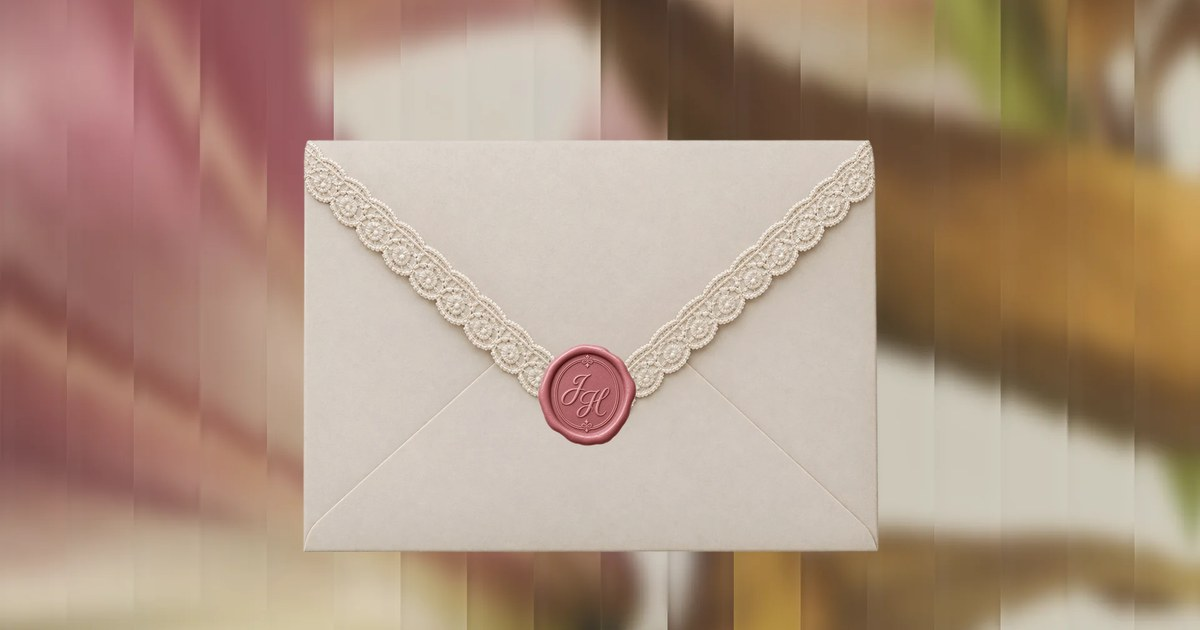
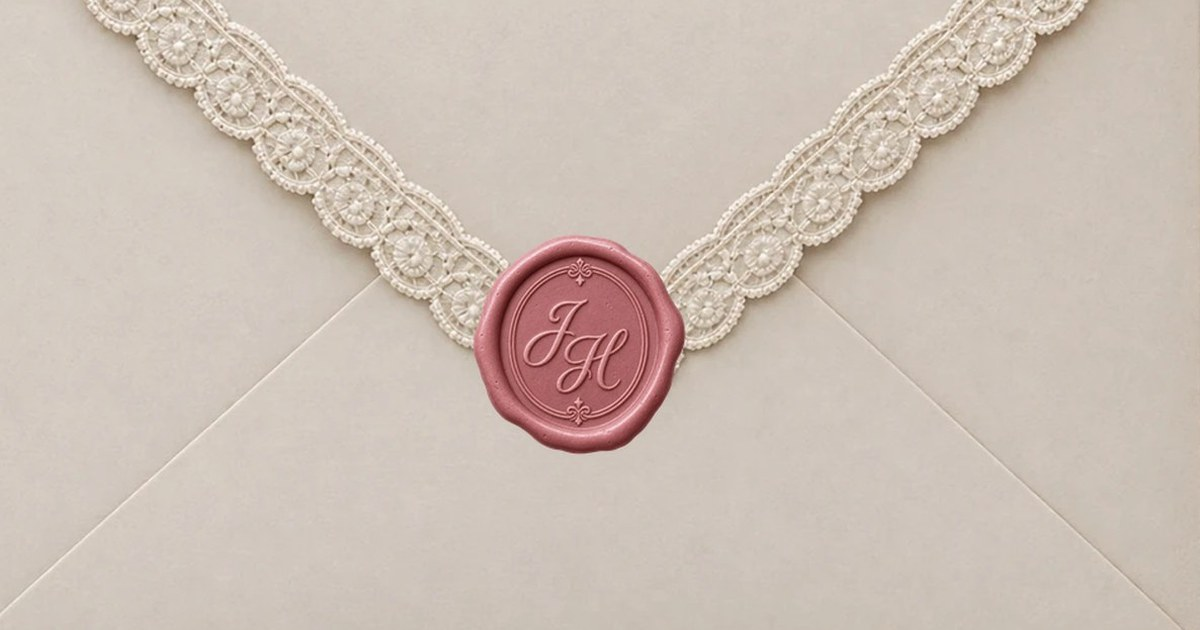
Vista previa del link: zoom del sobre a pantalla completa

diff --git a/index.html b/index.html
@@ -9,7 +9,7 @@
 <meta property="og:type" content="website">
 <meta property="og:title" content="Nos casamos - Julieta y Hernán">
 <meta property="og:description" content="Sábado 26 de diciembre de 2026 · Confirmá tu asistencia.">
-<meta property="og:image" content="https://camilarodriguezturri.github.io/juli-hernan-rsvp/assets/og-sobre.jpg">
+<meta property="og:image" content="https://camilarodriguezturri.github.io/juli-hernan-rsvp/assets/og-sobre.jpg?v=2">
 <meta property="og:image:width" content="1200">
 <meta property="og:image:height" content="630">
 <meta property="og:image:alt" content="Sobre con sello de lacre J H">
@@ -17,7 +17,7 @@
 <meta name="twitter:card" content="summary_large_image">
 <meta name="twitter:title" content="Nos casamos - Julieta y Hernán">
 <meta name="twitter:description" content="Sábado 26 de diciembre de 2026 · Confirmá tu asistencia.">
-<meta name="twitter:image" content="https://camilarodriguezturri.github.io/juli-hernan-rsvp/assets/og-sobre.jpg">
+<meta name="twitter:image" content="https://camilarodriguezturri.github.io/juli-hernan-rsvp/assets/og-sobre.jpg?v=2">
 <meta name="theme-color" content="#B87177">
 
 <link rel="preconnect" href="https://fonts.googleapis.com">
